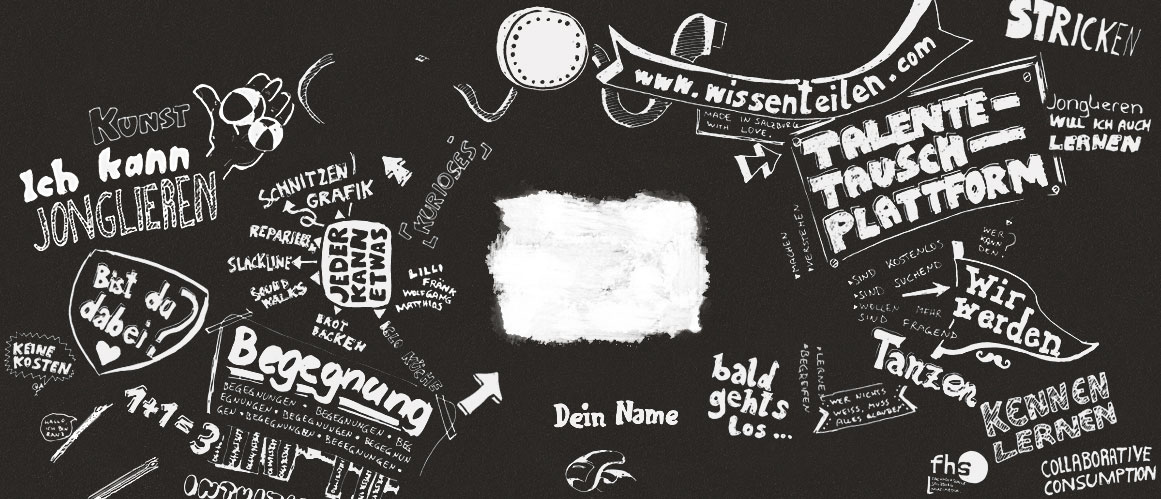
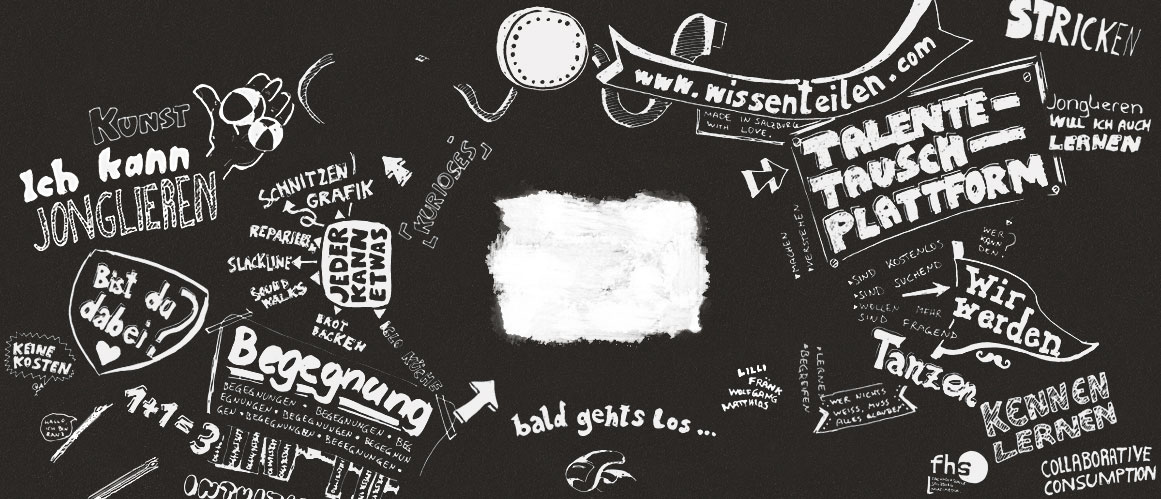
landingpage header activities IE fixes

Changed region(s): [[0.3721, 0.7214, 0.6822, 0.9018], [0.6202, 0.3006, 0.6822, 0.3908], [0.3411, 0.5411, 0.4031, 0.6313]]

diff --git a/app/assets/stylesheets/landing_page.css.scss b/app/assets/stylesheets/landing_page.css.scss
@@ -1,6 +1,4 @@
-@import "bootstrap.css.scss";
 @import "wissenteilen.css.scss";
-
 
 #landing_page {
     background: url(landingpage/layout-body-bg.jpg);
@@ -43,7 +41,7 @@
             }
             #hallo_content {
                 width: 600px;
-                height: 105px;
+                height: 60px;
                 margin: 0 auto;
                 position: relative;
                 top: 367px;
@@ -58,9 +56,8 @@
                 position: relative;
                 width: 232px;
                 height: 450px;
-                top: -848px;
+                top: -490px;
                 margin: 0 auto;
-                @include rotate(20deg);
 
                 #hand {
                     position: relative;
@@ -90,96 +87,115 @@
                 }
             }
 
-            #wir_wrapper {
-                position: relative;
-                top: -993px;
-                left: 508px;
-                width: 175px;
-                height: 182px;
-              #wir {
-                position: relative;
-                top: 20px;
-                left: 20px;
-                width: 75px;
-                height: 82px;
-                background: url(landingpage/layout-header-wir-typo.png) no-repeat;
-              }
-            }
 
-            #egg {
-              width: 220px;
+
+            #activities {
               position: relative;
-              top: -950px;
-              left: -225px ;
-              #egg_typo {
-                float: right;
-                width: 114px ;
-                height: 73px;
-                background: url(landingpage/layout-header-typo.png) no-repeat;
+              top: -605px;
+              height: 2px;
+              width: 2px;
+              margin: 0 auto;
+
+              #wir_wrapper {
+                position: relative;
+                top: 13px;
+                left: 156px;
+                width: 171px;
+                height: 148px;
+                #wir {
+                  position: relative;
+                  left: 45px;
+                  top: 35px;
+                  width: 75px;
+                  height: 82px;
+                  background: url(landingpage/layout-header-wir-typo.png) no-repeat;
+                }
               }
-            }
-            #urban {
-              width: 150px;
-              position: relative;
-              top: -1058px;
-              left: 52px;
-              #urban_typo {
-                margin-top: -18px;
-                margin-left: 10px;
-                width: 165px;
-                height: 97px;
-                background: url(landingpage/layout-header-urban-typo.png) no-repeat;
+
+              #egg {
+                position: relative;
+                top: 3px;
+                left: -547px;
+                width: 241px;
+                height: 110px;
+                background: url(landingpage/layout-header-egg.png) no-repeat;
+
+
+                #egg_typo {
+                  position: relative;
+                  left: 94px;
+                  width: 146px;
+                  height: 73px;
+                  background: url(landingpage/layout-header-typo.png) no-repeat;
+                }
               }
-            }
-            #robo_dance {
-              width: 150px;
-              position: relative;
-              top: -1305px;
-              left: 770px ;
-              #robo_typo {
+              #urban {
+                position: relative;
+                top: -108px;
+                left: -250px;
+                width: 109px;
+                height: 72px;
+                background: url(landingpage/layout-header-urban.png) no-repeat;
+
+                #urban_typo {
+                  position: relative;
+                  top: 49px;
+                  left: -10px;
+                  width: 165px;
+                  height: 97px;
+                  background: url(landingpage/layout-header-urban-typo.png) no-repeat;
+                }
+              }
+              #robo_dance {
+                position: relative;
+                top: -239px;
+                left: 439px;
                 width: 143px;
                 height: 65px;
                 background: url(landingpage/layout-header-robo-typo.png) no-repeat;
+
+                #robo_shoe {
+                  position: relative;
+                  top: 73px;
+                  left: 13px;
+                  width: 110px;
+                  height: 69px;
+                  background: url(landingpage/layout-header-robo-shoe.png) no-repeat;
+                }
               }
-              #robo_shoe {
-                margin-top: 5px;
-                width: 110px;
-                height: 69px;
-                background: url(landingpage/layout-header-robo-shoe.png) no-repeat;
+              #fb_sign {
+                position: relative;
+                top: 52px;
+                left: -410px;
+                width: 45px;
+                height: 37px;
+                background: url(landingpage/layout-header-facebook.png) no-repeat;
               }
-            }
-            #fb_sign {
-              position: relative;
-              top: -979px;
-              left: -85px;
-              width: 45px;
-              height: 37px;
-              background: url(landingpage/layout-header-facebook.png) no-repeat;
-            }
-            #faultier {
-              position: relative;
-              top: -1212px;
-              left: -192px;
-              width: 93px;
-              height: 89px;
-              background: url(landingpage/layout-header-faultier.png) no-repeat;
-            }
-            #light {
-              position: relative;
-              top: -1708px;
-              left: 475px;
-              width: 104px;
-              height: 64px;
-              background: url(landingpage/layout-header-light.png) no-repeat;
-            }
-            #the_dot {
-              background: url(landingpage/layout-header-thedot.png) no-repeat;
-              width: 48px;
-              height: 48px;
-              position: relative;
-              top: -1405px;
-              left: 275px;
-            }
+              #faultier {
+                position: relative;
+                top: -89px;
+                left: -511px;
+                width: 93px;
+                height: 89px;
+                background: url(landingpage/layout-header-faultier.png) no-repeat;
+              }
+              #light {
+                position: relative;
+                top: -569px;
+                left: 143px;
+                width: 104px;
+                height: 64px;
+                background: url(landingpage/layout-header-light.png) no-repeat;
+              }
+              #the_dot {
+                position: relative;
+                top: -337px;
+                left: -55px;
+                width: 48px;
+                height: 48px;
+                background: url(landingpage/layout-header-thedot.png) no-repeat;
+              }
+           }
         }
     }
     #content {
@@ -191,6 +207,8 @@
             font-size: 37pt;
             font-family: "LeagueGothicRegular";
             color: #587e81;
+            line-height: 37pt;
+            padding-bottom: 20px;
         }
 
         p {
@@ -214,7 +232,8 @@
                 width: 410px;
                 float:left;
                 #newsletter_subscriber_email {
-                    height: 41px;
+                    height: 48px;
+                    line-height: 48px;
                     width: 410px;
                     font-size: 25px;
                 }
@@ -223,12 +242,14 @@
                 }
             }
             #email_button {
-                width: 175px;
+                width: 180px;
                 float:right;
+                .wtkbtn_green {
+                  width: 180px;
+                }
             }
             img {
                 position: relative;
-                top: 10px;
                 left: 360px;
             }
         }

diff --git a/app/assets/stylesheets/wissenteilen.css.scss b/app/assets/stylesheets/wissenteilen.css.scss
@@ -1,5 +1,3 @@
-@import "bootstrap.css.scss";
-
 // Mixins
 @mixin rounded($radius: 0.5em) {
     -webkit-border-radius: $radius;
@@ -10,6 +8,7 @@
 @mixin rotate($deg: 0deg) {
     -webkit-transform: rotate($deg);
     -moz-transform: rotate($deg);
+    -ms-transform: rotate($deg);
     -o-transform: rotate($deg);
     transform: rotate($deg);
 }
@@ -19,6 +18,15 @@
     -khtml-opacity: $float;
     -moz-opacity: $float;
     opacity: $float;
+}
+
+* {
+  margin: 0;
+  padding: 0;
+}
+
+.clr {
+  clear: both;
 }
 
 // Fonts
